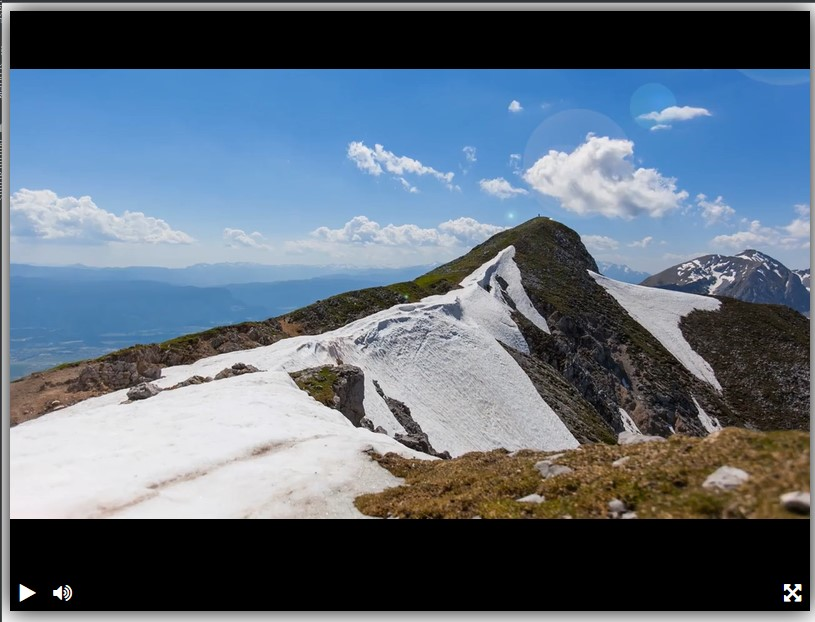
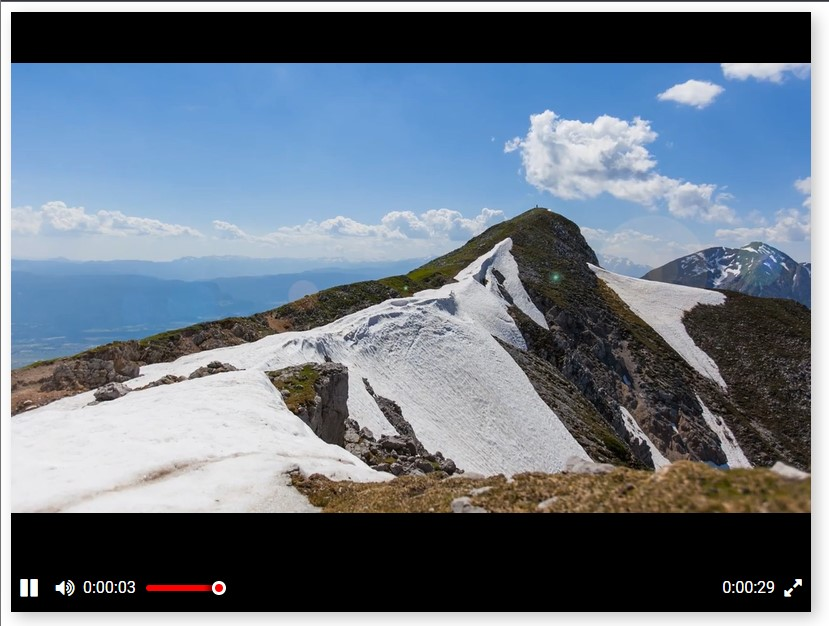
refactor
move style from index to main.css
new promo.jpg
add progress bar in index

diff --git a/index.html b/index.html
@@ -1,156 +1,59 @@
 <!DOCTYPE html>
 <html lang="en">
-<head>
-  <meta charset="UTF-8">
-  <title>Video Player</title>
-  <link rel="stylesheet" href="https://cdnjs.cloudflare.com/ajax/libs/normalize/8.0.1/normalize.min.css" integrity="sha512-NhSC1YmyruXifcj/KFRWoC561YpHpc5Jtzgvbuzx5VozKpWvQ+4nXhPdFgmx8xqexRcpAglTj9sIBWINXa8x5w==" crossorigin="anonymous" referrerpolicy="no-referrer" />
-  <link rel="stylesheet" href="static/css/font-awesome.min.css">
-  <link rel="icon" type="image/x-icon" href="static/favicon.ico">
-  <style>
-      :root {
-          font-family: "Roboto", sans-serif;
-          color: white;
-      }
+  <head>
+    <meta charset="UTF-8">
+    <title>Video Player</title>
+    <link rel="stylesheet" href="https://cdnjs.cloudflare.com/ajax/libs/normalize/8.0.1/normalize.min.css"
+          integrity="sha512-NhSC1YmyruXifcj/KFRWoC561YpHpc5Jtzgvbuzx5VozKpWvQ+4nXhPdFgmx8xqexRcpAglTj9sIBWINXa8x5w=="
+          crossorigin="anonymous"
+          referrerpolicy="no-referrer"
+    >
+    <link rel="preconnect" href="https://fonts.googleapis.com">
+    <link rel="preconnect" href="https://fonts.gstatic.com" crossorigin>
+    <link href="https://fonts.googleapis.com/css2?family=Roboto&display=swap" rel="stylesheet">
+    <link rel="stylesheet" href="static/css/font-awesome.min.css">
+    <link rel="stylesheet" href="static/css/main.css">
+    <link rel="icon" type="image/x-icon" href="static/favicon.ico">
+  </head>
+  <body>
+    <div id="player" class="player-main">
+      <div class="js-video-container player-main__container"></div>
+      <div class="player-control">
+        <button type="button" class="js-play-button player-button">
+          <i class="fa fa-play" aria-hidden="true"></i>
+        </button>
+        <button type="button" class="js-pause-button player-button" hidden>
+          <i class="fa fa-pause" aria-hidden="true"></i>
+        </button>
+        <button class="js-mute-button player-button" hidden>
+          <i class="fa fa-volume-up" aria-hidden="true"></i>
+        </button>
+        <button class="js-volume-button player-button">
+          <i class="fa fa-volume-off" aria-hidden="true"></i>
+        </button>
 
-      .player-main {
-          display: flex;
-          flex-direction: column;
-          width: 800px;
-          height: 600px;
-          box-shadow: 0 0 15px rgba(0, 0, 0, 0.5);
-          margin: 10px;
+        <div class="progress-bar__container">
+          <div class="js-current-time"></div>
+          <div class="js-progress progress-bar">
+            <div class="js-progress-slider progress-indicator"></div>
+            <div class="progress-handle"></div>
+          </div>
+          <div class="js-duration"></div>
+        </div>
 
-      }
+        <button class="js-fullscreen-button player-button">
+          <i class="fa fa-expand" aria-hidden="true"></i>
+        </button>
 
-      .player-main__container {
-          flex-grow: 1;
-      }
-
-      .player-control {
-          display: flex;
-          align-items: center;
-          background-color: #000000;
-      }
-
-      .button_separator {
-          flex-grow: 1;
-      }
-
-      .player-button {
-          box-sizing: border-box;
-          border-style: none;
-          cursor: pointer;
-          background-color: transparent;
-          font-size: 20px;
-          color: #FFFFFF;
-          width: 36px;
-          height: 41px;
-      }
-      .progress-bar-container {
-          background-color: #000;
-          height: 17px;
-          flex-grow: 2;
-          margin-left: 2px;
-          display: flex;
-          flex-direction: row;
-      }
-
-      .progress-bar__progress {
-          width: 100%;
-          margin: 6px 10px;
-      }
-
-      .progress-bar-slider {
-          display: inline-block;
-          background-color: red;
-          height: 0.3rem;
-          border-radius: 1rem;
-      }
-
-      .dot {
-          display: inline-block;
-          height: 0.5rem;
-          width: 0.5rem;
-          margin-left: -0.35rem;
-          background-color: red;
-          border: #fff solid 0.2rem;
-          border-radius: 50%;
-          box-shadow: 0 0 0.2rem rgba(0,0,0,0.5);
-          transition: all 300ms ease-in-out 0s;
-      }
-
-      .progress-bar {
-          display: flex;
-          flex-grow: 1;
-          margin: 5px 12px;
-        }
-
-        .progress-indicator {
-          background-color: red;
-          height: 6px;
-          border-radius: 3px;
-        }
-
-      .progress-handle {
-          background-color: red;
-          width: 8px;
-          height: 8px;
-          margin-top: -4px;
-          margin-left: -6px;
-          border-radius: 50%;
-          border: 3px solid white;
-          box-shadow:  0 0 5px 5px rgba(0, 0, 0, 0.5);
-          opacity: 0;
-          transition-property: opacity;
-          transition-duration: 0.3s;
-      }
-
-      .progress-bar:hover .progress-handle {
-          opacity: 100%;
-      }
-
-  </style>
-</head>
-<body>
-<div id="player" class="player-main">
-  <div class="js-video-container player-main__container"></div>
-  <div class="player-control">
-    <button type="button" class="js-play-button player-button">
-      <i class="fa fa-play" aria-hidden="true"></i>
-    </button>
-    <button type="button" class="js-pause-button player-button" hidden>
-      <i class="fa fa-pause" aria-hidden="true"></i>
-    </button>
-    <button class="js-mute-button player-button" hidden>
-      <i class="fa fa-volume-up" aria-hidden="true"></i>
-    </button>
-    <button class="js-volume-button player-button">
-      <i class="fa fa-volume-off" aria-hidden="true"></i>
-    </button>
-
-    <div class="progress-bar-container">
-      <div class="js-current-time"></div>
-      <div class="js-progress progress-bar">
-        <div class="js-progress-slider progress-indicator"></div>
-        <div class="progress-handle"></div>
       </div>
-      <div class="button_separator"></div>
-      <div class="js-duration"></div>
     </div>
 
-    <button class="js-fullscreen-button player-button">
-      <i class="fa fa-expand" aria-hidden="true"></i>
-    </button>
+    <script src="https://code.jquery.com/jquery-3.4.1.min.js"></script>
+    <script src="https://unpkg.com/playable@2.10.3/dist/statics/playable.bundle.min.js"></script>
+    <script src="static/js/player.js"></script>
 
-  </div>
-</div>
-
-<script src="https://code.jquery.com/jquery-3.4.1.min.js"></script>
-<script src="https://unpkg.com/playable@2.10.3/dist/statics/playable.bundle.min.js"></script>
-<script src="static/js/player.js"></script>
-
-<script type="text/javascript">
-    createPlayer({elementId: 'player'});
-</script>
-</body>
+    <script>
+        createPlayer({elementId: 'player'});
+    </script>
+  </body>
 </html>

diff --git a/static/css/main.css b/static/css/main.css
@@ -1,9 +1,15 @@
+:root {
+    font-family: "Roboto", sans-serif;
+    color: white;
+}
+
 .player-main {
     display: flex;
     flex-direction: column;
     width: 800px;
     height: 600px;
-    box-shadow: 0 0 25px rgba(0, 0, 0, 5);
+    box-shadow: 5px 5px 15px rgba(0, 0, 0, 0.25);
+    margin: 10px;
 }
 
 .player-main__container {
@@ -14,18 +20,57 @@
     display: flex;
     align-items: center;
     background-color: #000000;
+    height: 48px;
+    font-size: 1rem;
 }
 
-.button_separator {
-    flex-grow: 1;
-}
 
 .player-button {
-    border-style: none;
+    box-sizing: border-box;
     cursor: pointer;
-    background-color: rgba(28, 28, 28, 0);
-    font-size: 20px;
+    background-color: transparent;
+    font-size: 1.25rem;
     color: #FFFFFF;
-    width: 35px;
-    height: 35px;
+    width: 36px;
+    height: 100%;
+    padding: 0;
+    border-style: none;
+}
+
+.progress-bar__container {
+    flex-grow: 1;
+    display: flex;
+    align-items: center;
+    height: 100%;
+}
+
+.progress-bar {
+    display: flex;
+    align-items: center;
+    flex-grow: 1;
+    height: 6px;
+    padding: 0 10px;
+}
+
+.progress-indicator {
+    background-color: red;
+    height: 6px;
+    border-radius: 3px;
+}
+
+.progress-handle {
+    background-color: red;
+    width: 8px;
+    height: 8px;
+    margin-left: -6px;
+    border-radius: 50%;
+    border: 3px solid white;
+    box-shadow: 0 0 5px 5px rgba(0, 0, 0, 0.5);
+    opacity: 0;
+    transition-property: opacity;
+    transition-duration: 0.3s;
+}
+
+.progress-bar:hover .progress-handle {
+    opacity: 100%;
 }
